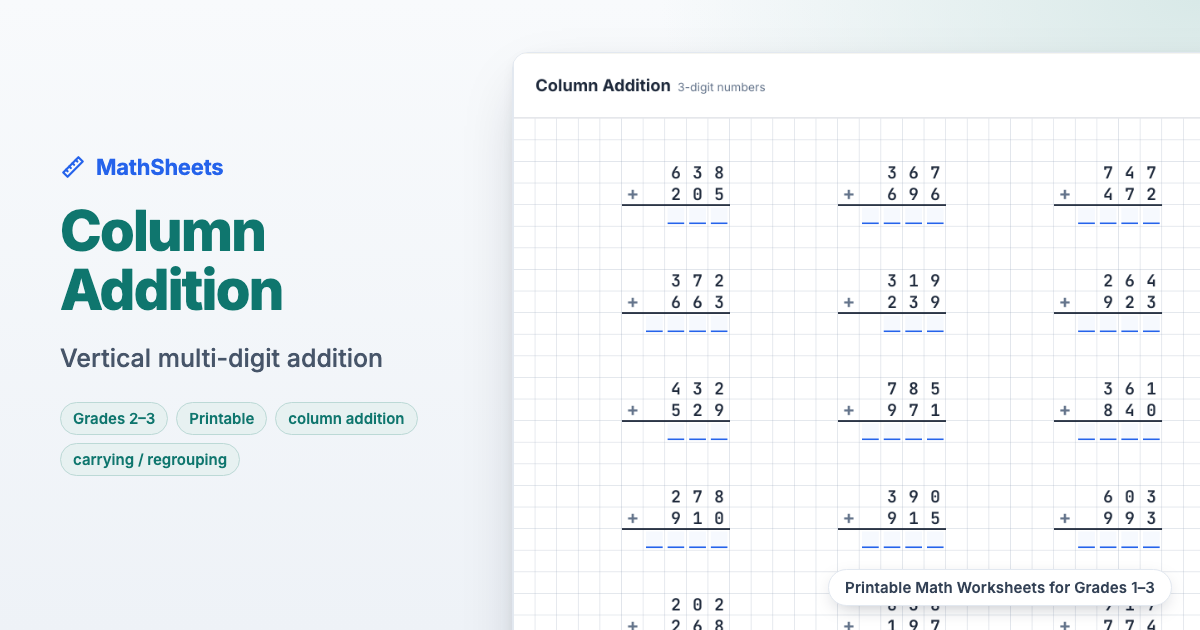
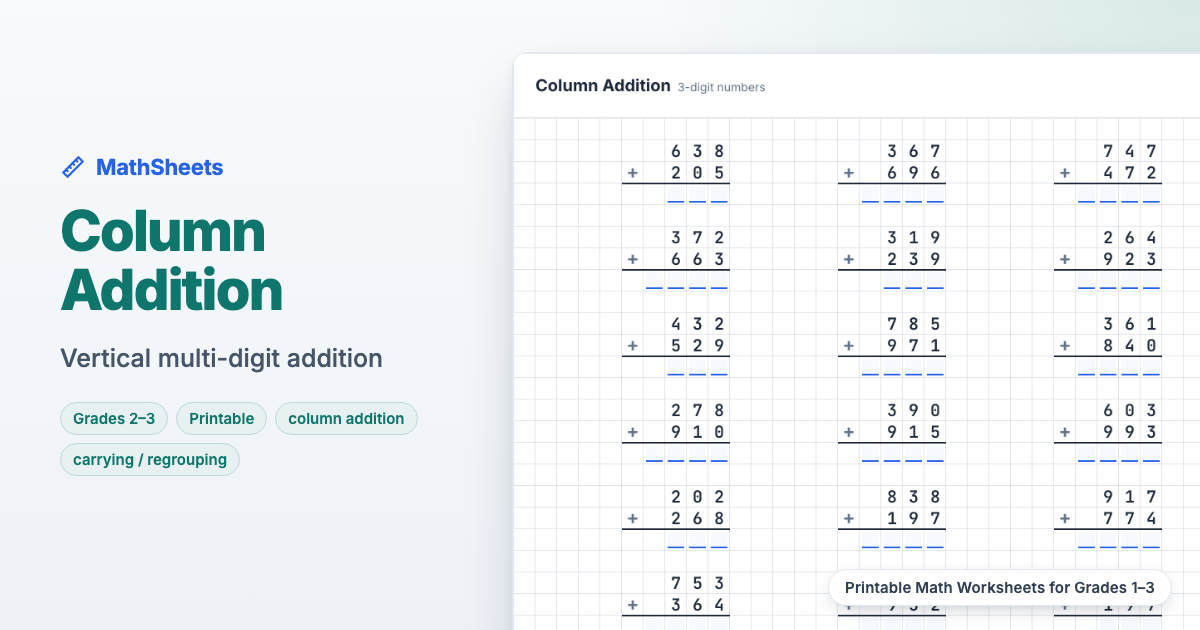
feat: enhance problem generation logic for column addition and multiplication, including spacing adjustments and new utility functions for page layout

diff --git a/src/hooks/useNotebookGrid.js b/src/hooks/useNotebookGrid.js
@@ -13,8 +13,13 @@ export const SCREEN_SQUARE = 26
 export const MIN_SQUARE = 18
 /** 1/4 inch at 96 dpi: standard quad ruling on printed sheets. */
 export const PRINT_SQUARE = 24
-/** Letter landscape (11in) minus the 0.3in margins declared by `@page` in index.css. */
+/** Letter landscape (11in × 8.5in) minus the 0.3in margins declared by `@page` in index.css. */
 export const PRINT_WIDTH = (11 - 0.6) * 96
+export const PRINT_HEIGHT = (8.5 - 0.6) * 96
+/** Squares taken by the header band (top padding + title); see ColumnAddition.css. */
+export const HEADER_BAND = 3
+/** Default empty squares below the header band and between rows of problems (each problem also has one spare square above it). */
+export const ROW_GAP = 1
 /** Squares of padding on each side of the sheet. */
 export const PAD = 1
 /** Width assumed until the sheet has been measured (also used in jsdom). */
@@ -47,12 +52,28 @@ export function notebookLayout({ width, columns, cellsWide, square = SCREEN_SQUA
 }
 
 /**
- * @param {{ columns: number, cellsWide: number, rows: number }} o
- *   rows: digit rows per problem (rules between rows take no space)
+ * Rows of problems that fit on one printed page, given the digit rows per
+ * problem: header band, headerGap, then n items of (rows + 1) squares
+ * separated by rowGap, with no bottom padding in print.
+ */
+export function rowsPerPage(rows, { rowGap = ROW_GAP, headerGap = ROW_GAP } = {}) {
+  const squares = Math.floor(PRINT_HEIGHT / PRINT_SQUARE)
+  return Math.max(1, Math.floor((squares - HEADER_BAND - headerGap + rowGap) / (rows + 1 + rowGap)))
+}
+
+/** Problems that fill exactly one printed page for a column count. */
+export function problemsPerPage({ columns, rows, rowGap, headerGap }) {
+  return columns * rowsPerPage(rows, { rowGap, headerGap })
+}
+
+/**
+ * @param {{ columns: number, cellsWide: number, rows: number, rowGap?: number, headerGap?: number }} o
+ *   rows: digit rows per problem (rules between rows take no space);
+ *   rowGap / headerGap: empty squares between problem rows / below the header (default ROW_GAP)
  * @returns {[import('react').RefObject, object]}
  *   attach the ref and the style object to the `.worksheet.colarith-notebook` element
  */
-export function useNotebookGrid({ columns, cellsWide, rows }) {
+export function useNotebookGrid({ columns, cellsWide, rows, rowGap = ROW_GAP, headerGap = ROW_GAP }) {
   const ref = useRef(null)
   const [width, setWidth] = useState(null)
 
@@ -85,6 +106,8 @@ export function useNotebookGrid({ columns, cellsWide, rows }) {
     '--nb-cols': columns,
     '--nb-cell-w': cellsWide,
     '--nb-rows': rows,
+    '--nb-row-gap': rowGap,
+    '--nb-header-gap': headerGap,
   }
 
   return [ref, style]

diff --git a/src/hooks/useNotebookGrid.test.js b/src/hooks/useNotebookGrid.test.js
@@ -1,5 +1,8 @@
 import { describe, it, expect } from 'vitest'
-import { notebookLayout, PRINT_WIDTH, PRINT_SQUARE, PAD, SCREEN_SQUARE, MIN_SQUARE } from './useNotebookGrid'
+import {
+  notebookLayout, rowsPerPage, problemsPerPage,
+  PRINT_WIDTH, PRINT_HEIGHT, PRINT_SQUARE, PAD, SCREEN_SQUARE, MIN_SQUARE, HEADER_BAND, ROW_GAP,
+} from './useNotebookGrid'
 
 function blockSquares(columns, cellsWide, { gap, offset }) {
   return PAD * 2 + offset + columns * cellsWide + (columns - 1) * gap
@@ -48,5 +51,28 @@ describe('notebookLayout', () => {
     const layout = notebookLayout({ width: PRINT_WIDTH, columns: 2, cellsWide: 6, square: PRINT_SQUARE })
     expect(layout.gap).toBe(6)
     expect(layout.offset).toBeGreaterThan(0)
+  })
+})
+
+describe('problemsPerPage', () => {
+  function pageSquares(rows, n, rowGap = ROW_GAP, headerGap = ROW_GAP) {
+    return HEADER_BAND + headerGap + n * (rows + 1) + (n - 1) * rowGap
+  }
+
+  it('fills a letter landscape page without spilling over', () => {
+    for (const rows of [3, 4, 5, 6]) {
+      for (const spacing of [{}, { rowGap: 0, headerGap: 0 }, { rowGap: 2, headerGap: 1 }]) {
+        const n = rowsPerPage(rows, spacing)
+        expect(pageSquares(rows, n, spacing.rowGap, spacing.headerGap) * PRINT_SQUARE).toBeLessThanOrEqual(PRINT_HEIGHT)
+        expect(pageSquares(rows, n + 1, spacing.rowGap, spacing.headerGap) * PRINT_SQUARE).toBeGreaterThan(PRINT_HEIGHT)
+      }
+    }
+  })
+
+  it('gives 4 rows of long multiplication and 7 rows of packed column addition per page', () => {
+    expect(rowsPerPage(5)).toBe(4)
+    expect(rowsPerPage(3, { rowGap: 0, headerGap: 0 })).toBe(7)
+    expect(problemsPerPage({ columns: 3, rows: 5 })).toBe(12)
+    expect(problemsPerPage({ columns: 4, rows: 3, rowGap: 0, headerGap: 0 })).toBe(28)
   })
 })

diff --git a/src/components/ColumnMultiplication.jsx b/src/components/ColumnMultiplication.jsx
@@ -1,7 +1,7 @@
 import { useMemo, useState } from 'react'
 import { IconRefresh, IconPrinter } from '@tabler/icons-react'
 import { usePersistedState } from '../hooks/usePersistedState'
-import { useNotebookGrid } from '../hooks/useNotebookGrid'
+import { useNotebookGrid, problemsPerPage } from '../hooks/useNotebookGrid'
 import { trackEvent } from '../lib/analytics'
 import { useT } from '../i18n/context'
 import './ColumnMultiplication.css'
@@ -119,8 +119,11 @@ export default function ColumnMultiplication() {
   const [seed, setSeed] = useState(0)
 
   const activePreset = PRESETS.find(item => item.value === preset) || PRESETS[PRESETS.length - 1]
-  const problemCount = columns === 2 ? 12 : columns === 3 ? 15 : 18
   const { aDigits, bDigits } = activePreset
+  // Rows: multiplicand, multiplier, one partial product per multiplier digit, product.
+  const rows = 3 + bDigits
+  // Exactly one printed page.
+  const problemCount = problemsPerPage({ columns, rows })
   const presetLabel = (a, b) => t('colmul.preset', { a, b })
 
   const problems = useMemo(() => {
@@ -133,8 +136,7 @@ export default function ColumnMultiplication() {
   }, [aDigits, bDigits, problemCount, seed])
 
   const width = digitColumns(aDigits, bDigits)
-  // Rows: multiplicand, multiplier, one partial product per multiplier digit, product.
-  const [sheetRef, sheetStyle] = useNotebookGrid({ columns, cellsWide: width + 1, rows: 3 + bDigits })
+  const [sheetRef, sheetStyle] = useNotebookGrid({ columns, cellsWide: width + 1, rows })
 
   return (
     <div className="tool-panel">

diff --git a/src/components/ColumnAddition.jsx b/src/components/ColumnAddition.jsx
@@ -1,7 +1,7 @@
 import { useMemo, useState } from 'react'
 import { IconRefresh, IconPrinter } from '@tabler/icons-react'
 import { usePersistedState } from '../hooks/usePersistedState'
-import { useNotebookGrid } from '../hooks/useNotebookGrid'
+import { useNotebookGrid, problemsPerPage } from '../hooks/useNotebookGrid'
 import { trackEvent } from '../lib/analytics'
 import { useT } from '../i18n/context'
 import './ColumnAddition.css'
@@ -95,10 +95,13 @@ export default function ColumnAddition() {
   const [preferCarry, setPreferCarry] = usePersistedState('coladd', 'preferCarry', true)
   const [seed, setSeed] = useState(0)
 
-  const problemCount = columns === 2 ? 16 : columns === 3 ? 21 : 28
+  // Rows: two addends and the sum. Problems are short, so they sit one blank
+  // row apart (the next problem's carry row) and fill exactly one printed page.
+  const rows = 3
+  const spacing = { rowGap: 0, headerGap: 0 }
+  const problemCount = problemsPerPage({ columns, rows, ...spacing })
   const width = digits + 1
-  // Rows: two addends and the sum.
-  const [sheetRef, sheetStyle] = useNotebookGrid({ columns, cellsWide: width + 1, rows: 3 })
+  const [sheetRef, sheetStyle] = useNotebookGrid({ columns, cellsWide: width + 1, rows, ...spacing })
 
   const problems = useMemo(() => {
     void seed

diff --git a/src/components/ColumnAddition.css b/src/components/ColumnAddition.css
@@ -120,7 +120,7 @@
   display: flex;
   align-items: center;
   height: calc(3 * var(--nb-sq));
-  margin: calc(-1 * var(--nb-sq)) calc(-1 * var(--nb-sq)) var(--nb-sq);
+  margin: calc(-1 * var(--nb-sq)) calc(-1 * var(--nb-sq)) calc(var(--nb-header-gap, 1) * var(--nb-sq));
   padding: 0 var(--nb-sq);
   border-bottom-width: 2px;
   background: var(--color-surface);
@@ -131,7 +131,7 @@
 .colarith-notebook .colarith-grid {
   grid-template-columns: repeat(var(--nb-cols), calc(var(--nb-cell-w) * var(--nb-sq)));
   column-gap: calc(var(--nb-gap) * var(--nb-sq));
-  row-gap: var(--nb-sq);
+  row-gap: calc(var(--nb-row-gap, 1) * var(--nb-sq));
   justify-content: start;
   margin-left: calc(var(--nb-offset) * var(--nb-sq));
 }
@@ -202,7 +202,7 @@
     --nb-sq: var(--nb-sq-print);
     --nb-gap: var(--nb-gap-print);
     --nb-offset: var(--nb-offset-print);
-    padding: var(--nb-sq);
+    padding: var(--nb-sq) var(--nb-sq) 0;
     overflow: visible;
   }
 
